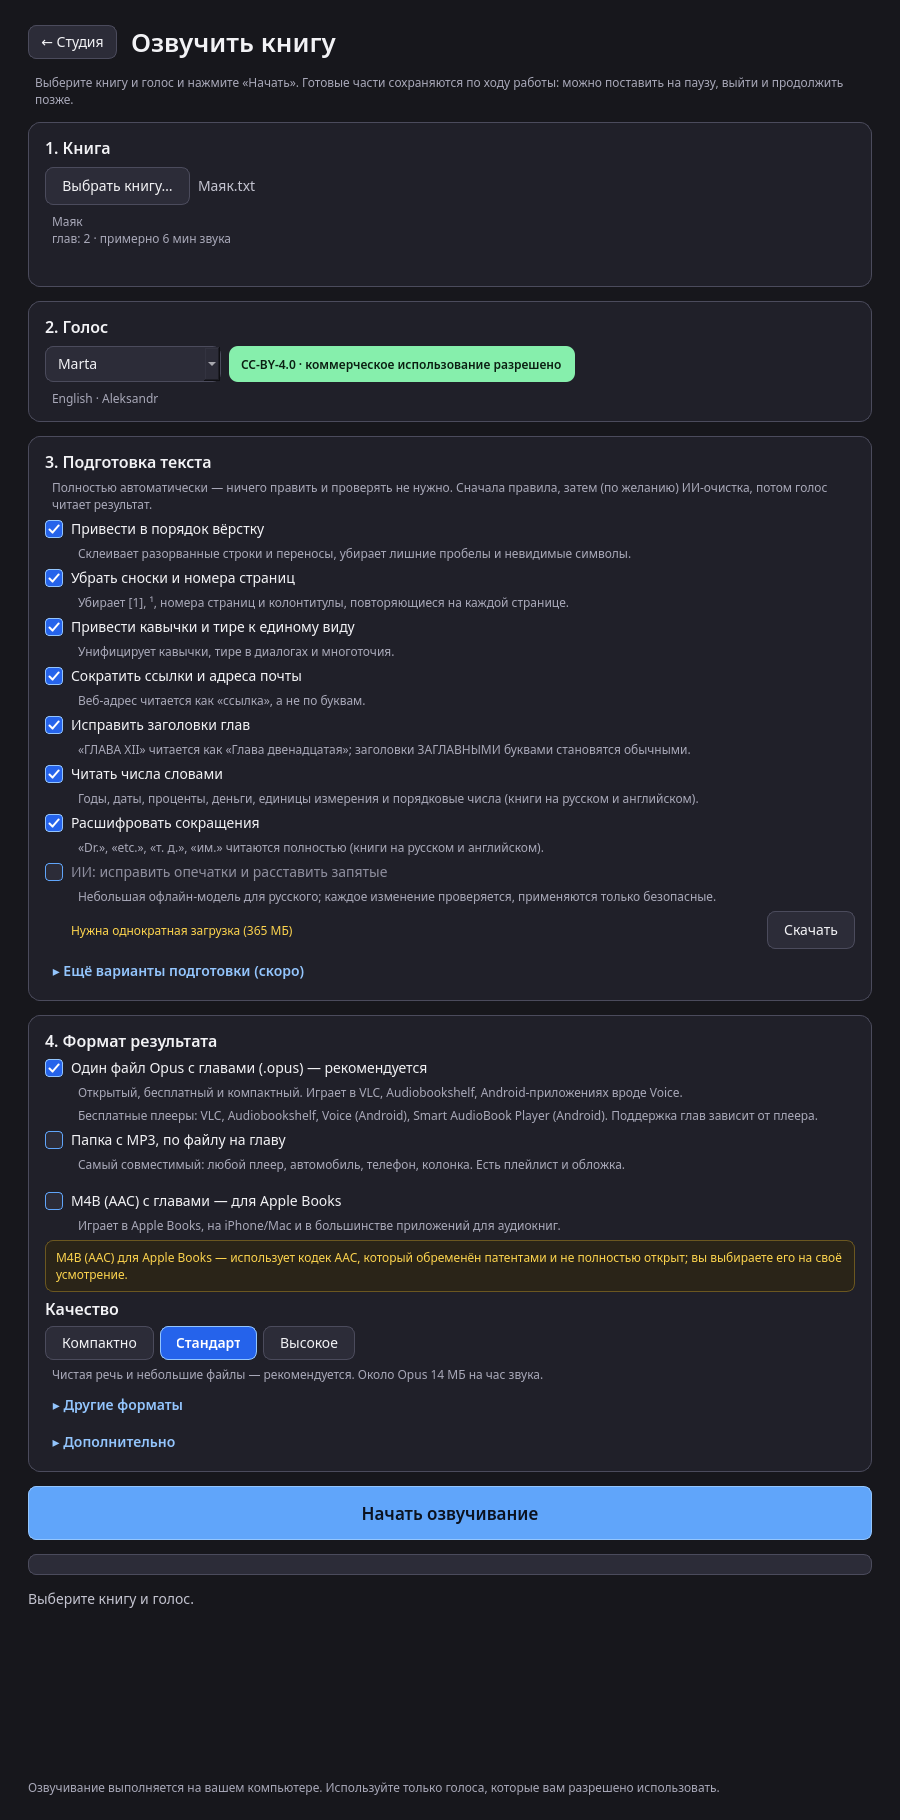
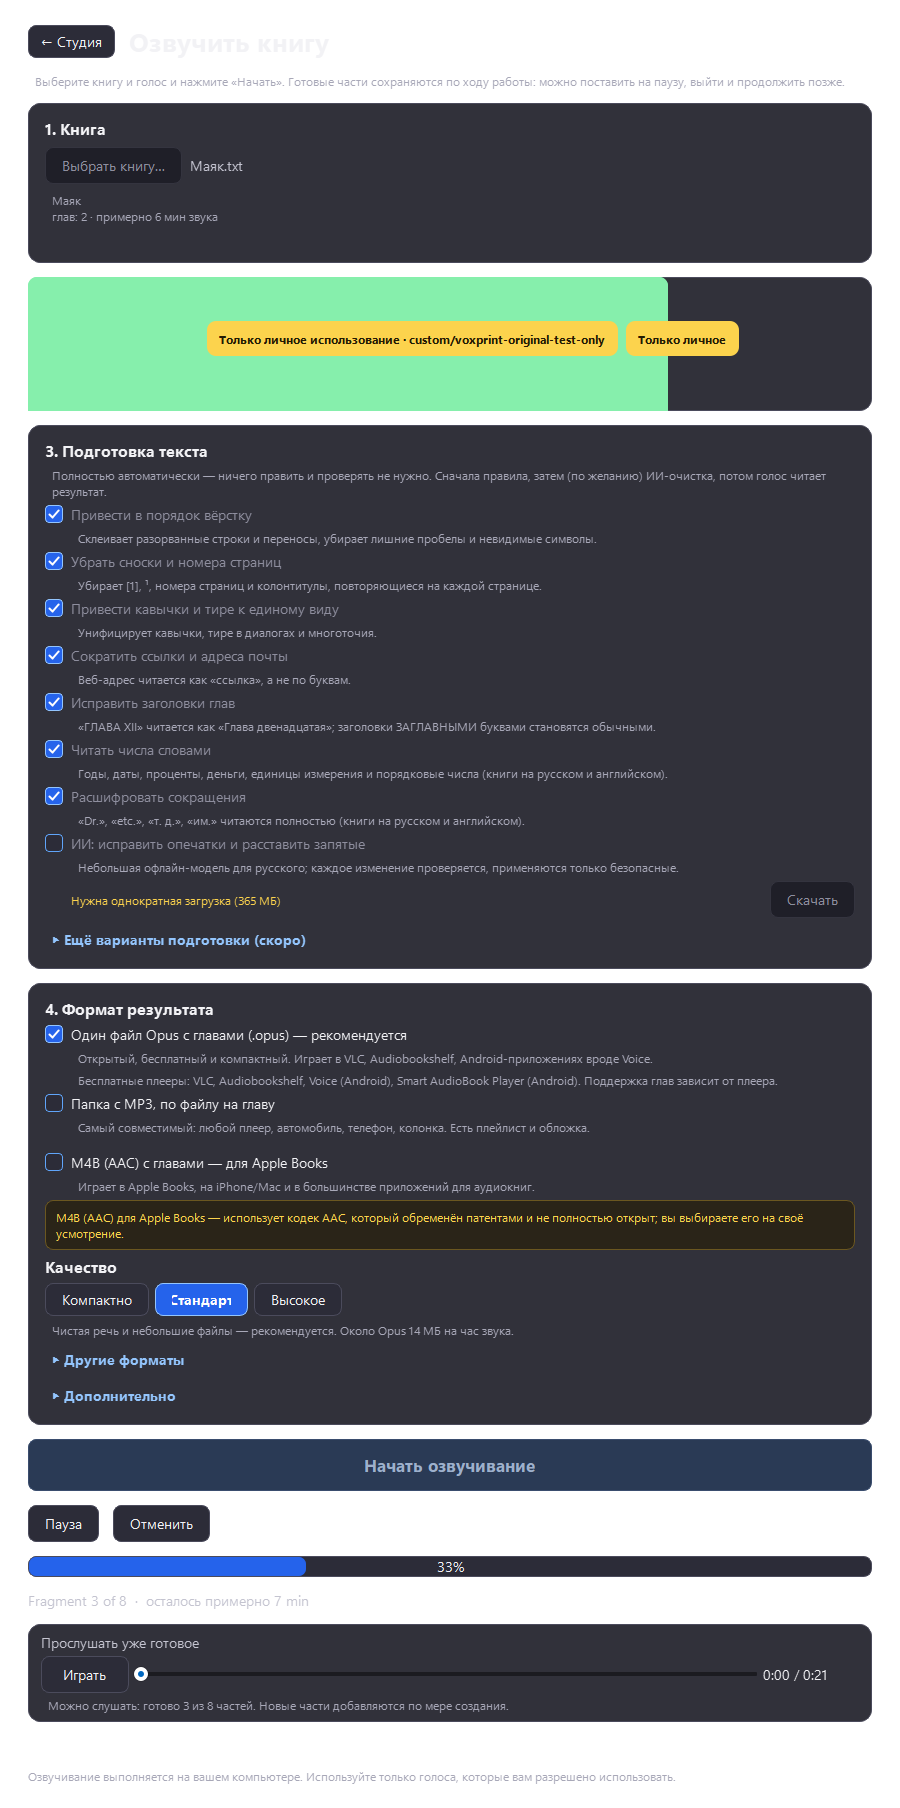
Final real-Windows screenshots (dark theme, EN + RU/DE): Studio, My voices (installed + online), Narrate with mini player, Train (no-transcript, presets, quick preview, consent), Settings; README screenshots section; stale images removed

diff --git a/README.md b/README.md
@@ -68,38 +68,24 @@ voice recording and a text file to ready output files you can load into a neural
 * Acrylic (glass) look on Windows 11 with a dark, high-contrast (WCAG AA) theme and a plain fallback.
 
 ## Screenshots
-All screenshots are English-UI renders of the current theme (offscreen Qt; see `docs/screenshots/`; Russian and German renders are in `docs/screenshots/ru/` and `docs/screenshots/de/`).
+Real screenshots of the current build on **Windows (RTX 4090 server, dark theme, English UI)**; Russian and German versions of the main windows are in [`docs/screenshots/ru/`](docs/screenshots/ru/) and [`docs/screenshots/de/`](docs/screenshots/de/).
 
-| Studio (no voices yet) | Studio | My voices |
+<p align="center"><img src="docs/screenshots/desktop_acrylic.png" alt="Voxprint Studio over a dark desktop (Acrylic)" width="720"></p>
+
+| Studio | My voices (installed voices, licence and scope badges) | My voices (an online voice, not downloaded yet) |
 |---|---|---|
-| <img src="docs/screenshots/studio_empty.png" width="300"> | <img src="docs/screenshots/studio_home.png" width="300"> | <img src="docs/screenshots/voices.png" width="300"> |
+| <img src="docs/screenshots/studio_home.png" width="300"> | <img src="docs/screenshots/voices.png" width="300"> | <img src="docs/screenshots/voices_online.png" width="300"> |
 
-| Narrate a book (sections collapsed) | Everything expanded, AAC notice | Narration running |
-|---|---|---|
-| <img src="docs/screenshots/narrate.png" width="300"> | <img src="docs/screenshots/narrate_aac.png" width="300"> | <img src="docs/screenshots/narrate_running.png" width="300"> |
-
-Same windows in Russian and German: [`ru/studio_home`](docs/screenshots/ru/studio_home.png), [`ru/voices`](docs/screenshots/ru/voices.png), [`ru/settings`](docs/screenshots/ru/settings.png), [`de/settings`](docs/screenshots/de/settings.png), [`ru/narrate`](docs/screenshots/ru/narrate.png), [`ru/narrate_aac`](docs/screenshots/ru/narrate_aac.png),
-[`de/studio_home`](docs/screenshots/de/studio_home.png), [`de/voices`](docs/screenshots/de/voices.png), [`de/narrate`](docs/screenshots/de/narrate.png), [`de/narrate_aac`](docs/screenshots/de/narrate_aac.png).
-
-Training window ("Train your voice"):
-
-| Choose files | Running | Done |
-|---|---|---|
-| <img src="docs/screenshots/main_files_chosen.png" width="300"> | <img src="docs/screenshots/main_running.png" width="300"> | <img src="docs/screenshots/main_done.png" width="300"> |
-
-| Idle | Settings (gear) | About |
-|---|---|---|
-| <img src="docs/screenshots/main_idle.png" width="300"> | <img src="docs/screenshots/settings.png" width="300"> | <img src="docs/screenshots/about.png" width="300"> |
-
-Acrylic preview - the translucent window with its strong dark tint, composited over a deliberately bright desktop (the worst case for contrast):
-
-<p align="center"><img src="docs/screenshots/main_acrylic_preview.png" alt="Acrylic preview" width="520"></p>
-
-Real desktop screenshots from the Windows test run (Windows Server 2025, taken *before* the darker, more opaque theme - the current look is the one above):
-
-| 1920x1080 at 125% | 1366x768 at 125% |
+| Narrate a book, with the mini player (listen while it is being made) | Train: presets and the no-transcript mode |
 |---|---|
-| <img src="docs/screenshots/windows_desktop_1920x1080_125.png" width="420"> | <img src="docs/screenshots/windows_desktop_1366x768_125.png" width="420"> |
+| <img src="docs/screenshots/narrate.png" width="330"> | <img src="docs/screenshots/train_notranscript.png" width="330"> |
+
+| Train: quick preview, compare two variants | Train: voice-owner consent after training | Settings |
+|---|---|---|
+| <img src="docs/screenshots/train_preview.png" width="300"> | <img src="docs/screenshots/train_consent.png" width="300"> | <img src="docs/screenshots/settings.png" width="240"> |
+
+Russian: [`studio_home`](docs/screenshots/ru/studio_home.png), [`voices`](docs/screenshots/ru/voices.png), [`narrate`](docs/screenshots/ru/narrate.png) · German: [`studio_home`](docs/screenshots/de/studio_home.png), [`voices`](docs/screenshots/de/voices.png), [`narrate`](docs/screenshots/de/narrate.png).
+The voices in the screenshots are demo entries; "Alexander" is the real metadata of the original voice package.
 
 ## Installation
 There is no public release yet. Planned installer channels are listed in the [Roadmap](#roadmap). Today you have two options.
